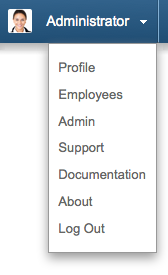
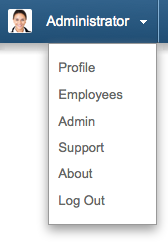
fixes to modal and content

diff --git a/sugarcrm/include/javascript/tour.js b/sugarcrm/include/javascript/tour.js
@@ -32,7 +32,7 @@ var tourModal;
 		init: function(params) {
 			var modals = params.modals;
             var modalArray = new Array();
-			tourModal = $('<div id="'+params.id+'" class="modal"></div>').modal({backdrop: false}).draggable();
+			tourModal = $('<div id="'+params.id+'" class="modal"></div>').modal({backdrop: false}).draggable({handle: ".modal-header"});
 
 			var tourIdSel = "#"+params.id;
 
@@ -71,7 +71,7 @@ var tourModal;
 
 					for(var i=0; i<modals.length; i++) {
                         var modalId =  modals[i].target.replace("#","")+"_modal";
-                        modalArray[i] = $('<div id="'+modalId+'" class="modal '+params.class+'"></div>').modal({backdrop: false}).draggable();
+                        modalArray[i] = $('<div id="'+modalId+'" class="modal '+params.class+'"></div>').modal({backdrop: false}).draggable({handle: ".modal-header"});
 //                        modalArray[i].modal('show');
                         var modalContent = "<div class=\"modal-header\"><a class=\"close\" data-dismiss=\"modal\">×</a><h3>"+modals[i].title+"</h3></div>";
 

diff --git a/sugarcrm/modules/Home/tour.css b/sugarcrm/modules/Home/tour.css
@@ -93,7 +93,7 @@ h3.popover-title {
 }
 #tourEnd .modal-body p
 {
-	margin-top: 85px;	
+	margin-top: 84px;
 }
 
 li.icon-ok:before,i.icon-ok:before {

diff --git a/sugarcrm/include/globalControlLinks.php b/sugarcrm/include/globalControlLinks.php
@@ -82,11 +82,6 @@ $global_control_links['help'] = array(
  );
 */
 
-$global_control_links['docs'] = array(
-'linkinfo' => array($app_strings['documentation']['LBL_DOCS'] => 'javascript:void(window.open(\'http://support.sugarcrm.com/02_Documentation/01_Sugar_Editions/'.$app_strings['documentation'][$sugar_flavor].'\'))'),
-'submenu' => ''
-);
-
 $global_control_links['users'] = array(
 'linkinfo' => array($app_strings['LBL_LOGOUT'] => 'index.php?module=Users&action=Logout'),
 'submenu' => ''
